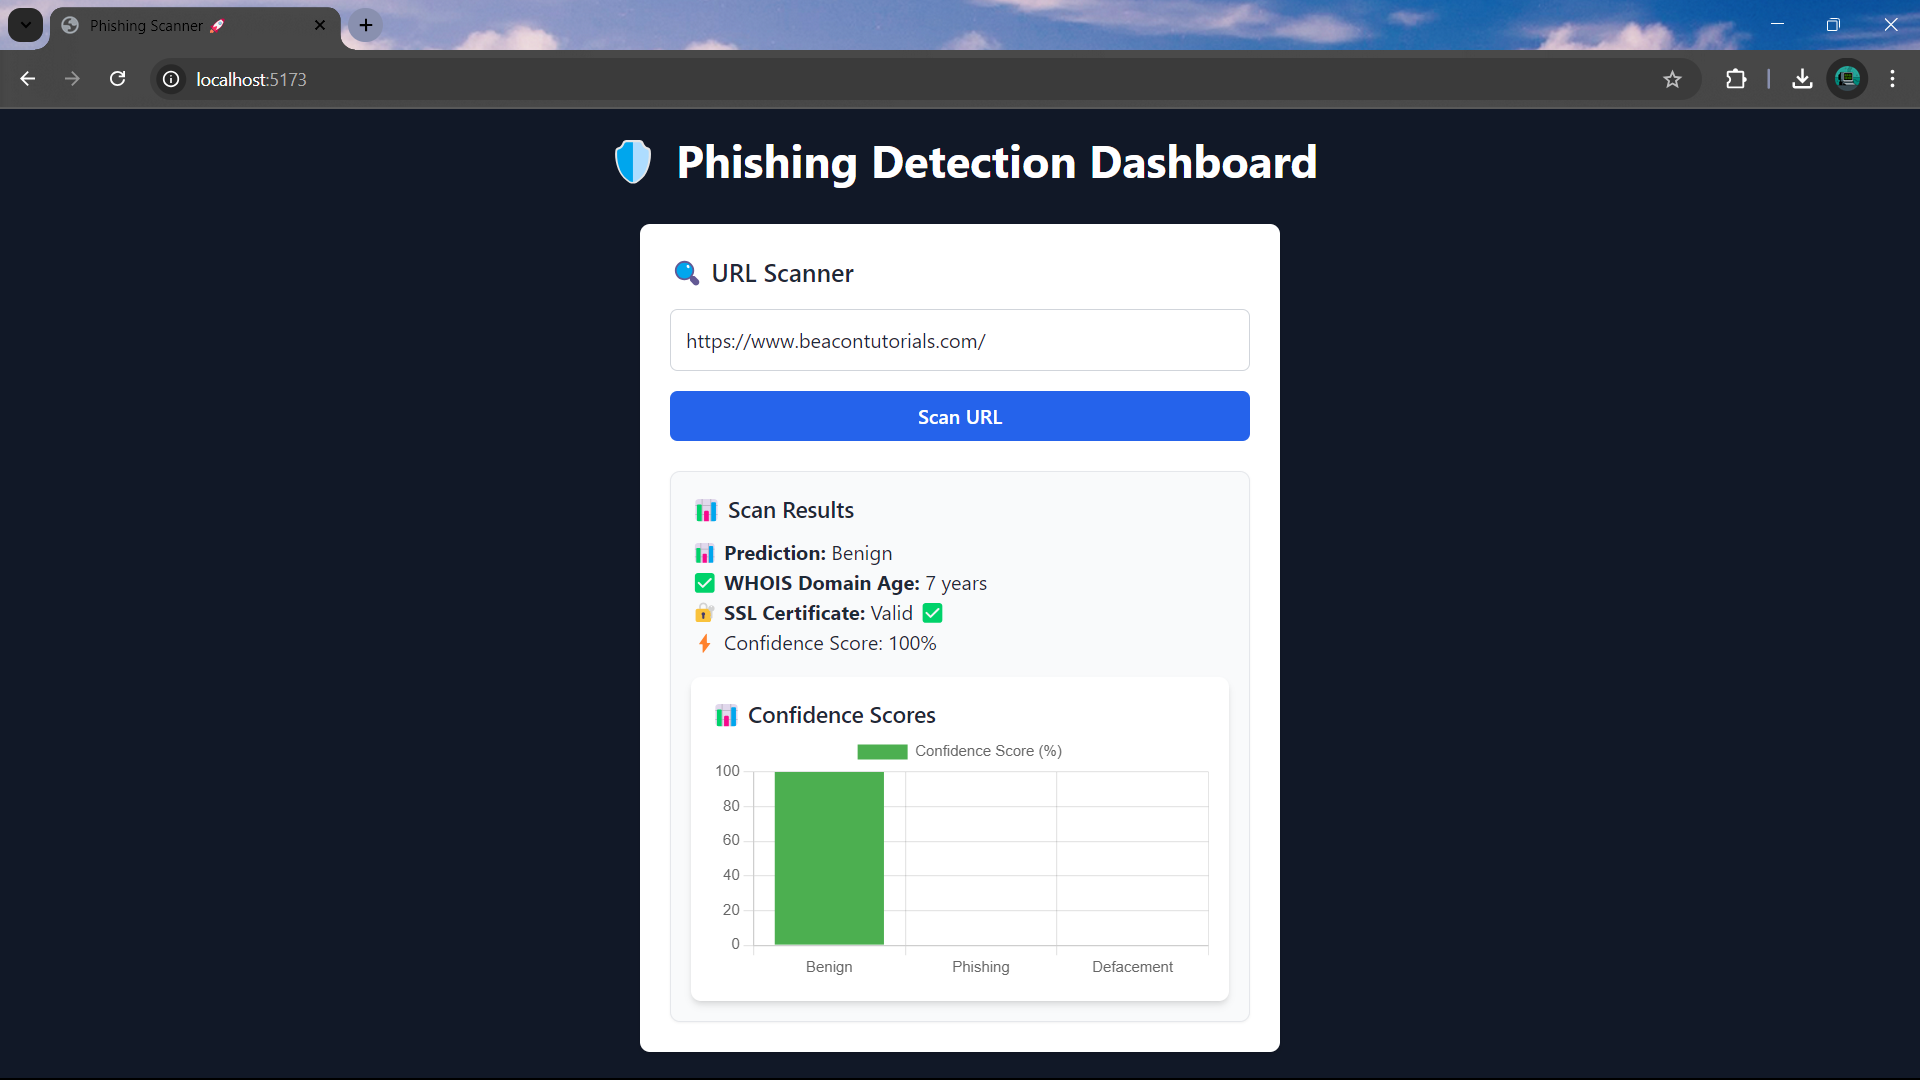
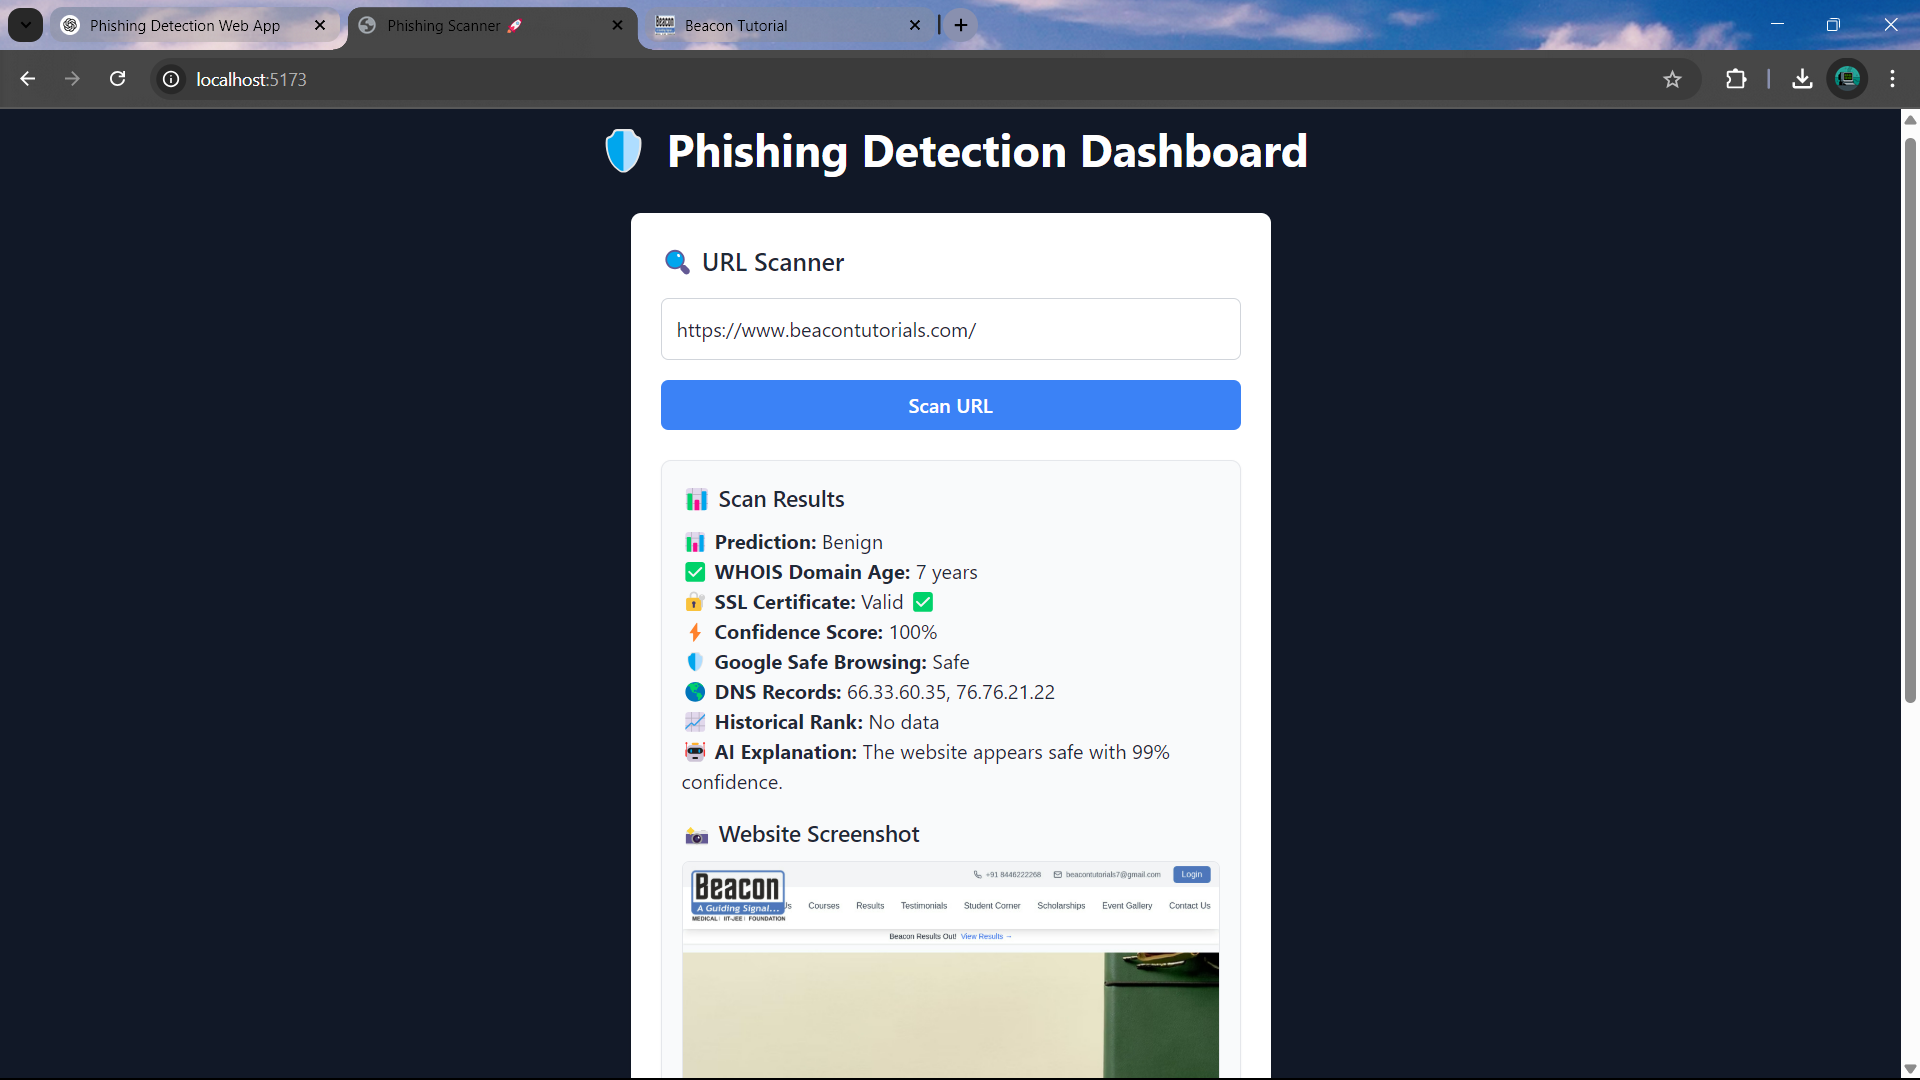
Second Commit

diff --git a/frontend/src/components/UrlScanner.jsx b/frontend/src/components/UrlScanner.jsx
@@ -32,7 +32,7 @@ const UrlScanner = () => {
 
       const data = await response.json();
       setResult(data);
-    } catch  {
+    } catch {
       setError("❌ Error scanning the URL.");
     }
 
@@ -77,10 +77,32 @@ const UrlScanner = () => {
           <p>
             <strong>🔐 SSL Certificate:</strong> {result.ssl_valid ? "Valid ✅" : "Invalid ❌"}
           </p>
-          <p>⚡ Confidence Score: {result.confidence_score !== undefined ? `${result.confidence_score}%` : "N/A"}</p>
+          <p>
+            <strong>⚡ Confidence Score:</strong> {result.confidence_score}%
+          </p>
+          <p>
+            <strong>🛡 Google Safe Browsing:</strong> {result.safe_browsing}
+          </p>
+          <p>
+            <strong>🌎 DNS Records:</strong> {result.dns_records.length > 0 ? result.dns_records.join(", ") : "None ❌"}
+          </p>
+          <p>
+            <strong>📈 Historical Rank:</strong> {result.historical_rank || "Not Available"}
+          </p>
+          <p>
+            <strong>🤖 AI Explanation:</strong> {result.ai_explanation}
+          </p>
 
+          {/* Screenshot */}
+          {result.screenshot && (
+            <div className="mt-4">
+              <h3 className="text-lg font-semibold">📸 Website Screenshot</h3>
+              <img src={result.screenshot} alt="Website Screenshot" className="mt-2 w-full rounded-md border" />
+            </div>
+          )}
 
-          <ScoreChart scores={result.scores} />
+          {/* Score Chart */}
+          <ScoreChart scores={result.scores} prediction={result.prediction} />
         </div>
       )}
     </div>

diff --git a/frontend/src/components/ScoreChart.jsx b/frontend/src/components/ScoreChart.jsx
@@ -6,7 +6,7 @@ import { Chart as ChartJS, CategoryScale, LinearScale, BarElement, Title, Toolti
 ChartJS.register(CategoryScale, LinearScale, BarElement, Title, Tooltip, Legend);
 
 const ScoreChart = ({ scores, prediction }) => {
-  // ✅ Ensure override reflects in frontend too
+  // Override scores if the final prediction is Benign due to SSL & WHOIS
   const adjustedScores = prediction === "Benign" ? { benign: 100, phishing: 0, defacement: 0 } : scores;
 
   const data = {

diff --git a/backend/main.py b/backend/main.py
@@ -3,10 +3,14 @@ from pydantic import BaseModel
 import joblib
 import numpy as np
 import re
-from urllib.parse import urlparse
-from utils import get_ssl_expiry, get_domain_age
-from fastapi.middleware.cors import CORSMiddleware
+import requests
+import dns.resolver
 import tldextract
+from urllib.parse import urlparse
+from fastapi.middleware.cors import CORSMiddleware
+from utils import get_ssl_expiry, get_domain_age, get_screenshot
+import whois
+from fastapi.staticfiles import StaticFiles
 
 # Load trained models
 try:
@@ -18,6 +22,9 @@ except Exception as e:
 
 app = FastAPI()
 
+
+app.mount("/screenshots", StaticFiles(directory="screenshots"), name="screenshots")
+
 # CORS Middleware
 app.add_middleware(
     CORSMiddleware,
@@ -26,6 +33,10 @@ app.add_middleware(
     allow_methods=["*"],
     allow_headers=["*"],
 )
+
+# Google Safe Browsing API Key
+SAFE_BROWSING_API_KEY = "AIzaSyBVX1mJdkopR__1pOmSQLd3RnJ4QrYvqJA"
+SAFE_BROWSING_URL = "https://safebrowsing.googleapis.com/v4/threatMatches:find"
 
 # Input model
 class URLInput(BaseModel):
@@ -45,7 +56,7 @@ def extract_features(url):
             1 if re.search(r'paypal|bank|login|signin', url, re.I) else 0  # Suspicious words
         ]
 
-        # ✅ **Add back the 13th Feature: TLD Length**
+        # ✅ **TLD Length Feature (13th Feature)**
         extracted = tldextract.extract(url)
         tld_length = len(extracted.suffix) if extracted.suffix else -1
         features.append(tld_length)
@@ -57,7 +68,59 @@ def extract_features(url):
         print(f"❌ Error extracting features: {e}")
         raise HTTPException(status_code=500, detail=f"Feature extraction error: {e}")
 
-# Prediction Endpoint
+# ✅ DNS Record Check
+def check_dns_records(url):
+    try:
+        domain = urlparse(url).netloc
+        answers = dns.resolver.resolve(domain, 'A')
+        return [str(ip) for ip in answers]
+    except Exception:
+        return []
+
+# ✅ Google Safe Browsing Check
+def check_safe_browsing(url):
+    try:
+        payload = {
+            "client": {"clientId": "your-app", "clientVersion": "1.0"},
+            "threatInfo": {
+                "threatTypes": ["MALWARE", "SOCIAL_ENGINEERING", "UNWANTED_SOFTWARE"],
+                "platformTypes": ["ANY_PLATFORM"],
+                "threatEntryTypes": ["URL"],
+                "threatEntries": [{"url": url}],
+            },
+        }
+        response = requests.post(f"{SAFE_BROWSING_URL}?key={SAFE_BROWSING_API_KEY}", json=payload)
+        data = response.json()
+        return "Safe" if "matches" not in data else "Unsafe"
+    except Exception as e:
+        return "Error"
+
+# ✅ WHOIS Data Dump
+def get_whois_data(url):
+    try:
+        domain = urlparse(url).netloc
+        whois_info = whois.whois(domain)
+        return whois_info.text
+    except Exception:
+        return "WHOIS lookup failed."
+
+# ✅ Historical Rank (Alexa/SimilarWeb)
+def get_historical_rank(url):
+    try:
+        domain = urlparse(url).netloc
+        response = requests.get(f"https://www.similarweb.com/website/{domain}")
+        return "Rank retrieved" if response.status_code == 200 else "No data"
+    except Exception:
+        return "Error retrieving rank"
+
+# ✅ AI Explanation
+def generate_explanation(prediction, confidence_score):
+    if prediction == "Phishing":
+        return f"The website was flagged as phishing with {confidence_score}% confidence. Possible reasons: suspicious keywords, low domain age, SSL issues."
+    else:
+        return f"The website appears safe with {confidence_score}% confidence."
+
+# ✅ Prediction Endpoint
 @app.post("/predict")
 async def predict_url(data: URLInput):
     url = data.url.strip()
@@ -74,10 +137,29 @@ async def predict_url(data: URLInput):
         final_probs = (rf_pred + lgb_pred) / 2
         labels = ["benign", "phishing", "defacement"]
         predicted_label = labels[np.argmax(final_probs)]
+        confidence_score = int(np.max(final_probs) * 100)
 
         # Get WHOIS Domain Age & SSL Status
         domain_age = get_domain_age(url)
         ssl_valid = get_ssl_expiry(url)
+
+        # ✅ DNS Records
+        dns_records = check_dns_records(url)
+
+        # ✅ Google Safe Browsing Check
+        safe_browsing_status = check_safe_browsing(url)
+
+        # ✅ Full WHOIS Data
+        whois_data = get_whois_data(url)
+
+        # ✅ Historical Rank
+        historical_rank = get_historical_rank(url)
+
+        # ✅ AI Explanation
+        explanation = generate_explanation(predicted_label, confidence_score)
+
+        # ✅ Page Screenshot
+        screenshot_url = get_screenshot(url)
 
         print(f"🔍 Domain Age: {domain_age}, SSL Valid: {ssl_valid}")  # Debug print
 
@@ -87,13 +169,19 @@ async def predict_url(data: URLInput):
             confidence_score = 100  # Override confidence score to 100%
             final_probs = [1.0, 0.0, 0.0]  # Override confidence scores to Benign = 100%
 
-        print(f"✅ Final Prediction: {predicted_label}, Confidence: {final_probs}")  # Debug print
+        print(f"✅ Final Prediction: {predicted_label}, Confidence: {confidence_score}")  # Debug print
 
         return {
             "prediction": predicted_label.capitalize(),
             "domain_age": domain_age,
-            "confidence_score": confidence_score,
             "ssl_valid": ssl_valid,
+            "confidence_score": confidence_score,
+            "dns_records": dns_records,
+            "safe_browsing": safe_browsing_status,
+            "whois_data": whois_data,
+            "historical_rank": historical_rank,
+            "ai_explanation": explanation,
+            "screenshot": screenshot_url,
             "scores": {
                 "benign": int(final_probs[0] * 100),
                 "phishing": int(final_probs[1] * 100),
@@ -105,7 +193,7 @@ async def predict_url(data: URLInput):
         print(f"❌ Error in prediction: {e}")  # Debug print
         raise HTTPException(status_code=500, detail=f"Error processing URL: {e}")
 
-# Health Check
+# ✅ Health Check Endpoint
 @app.get("/healthcheck")
 async def healthcheck():
     return {"status": "OK", "message": "API is running!"}

diff --git a/backend/utils.py b/backend/utils.py
@@ -2,6 +2,9 @@ import ssl
 import socket
 import whois
 import datetime
+import requests
+import os
+import re
 from urllib.parse import urlparse
 
 # Get SSL Certificate Expiry
@@ -34,3 +37,24 @@ def get_domain_age(url):
         return age
     except:
         return -1  # Failed to retrieve WHOIS
+    
+    
+def get_screenshot(url):
+    """Takes a screenshot of the webpage using a screenshot API and returns its accessible path."""
+    api_key = "1c39be"  # Replace with actual API key
+    screenshot_url = f"https://api.screenshotmachine.com?key={api_key}&url={url}&dimension=1024x768"
+
+    response = requests.get(screenshot_url)
+    
+    if response.status_code == 200:
+        filename = url.replace("https://", "").replace("http://", "").replace("/", "_") + ".png"
+        filepath = f"screenshots/{filename}"
+        os.makedirs("screenshots", exist_ok=True)
+        
+        with open(filepath, "wb") as f:
+            f.write(response.content)
+        
+        return f"http://127.0.0.1:8000/{filepath}"  # Ensure frontend can access it
+    else:
+        return None
+
